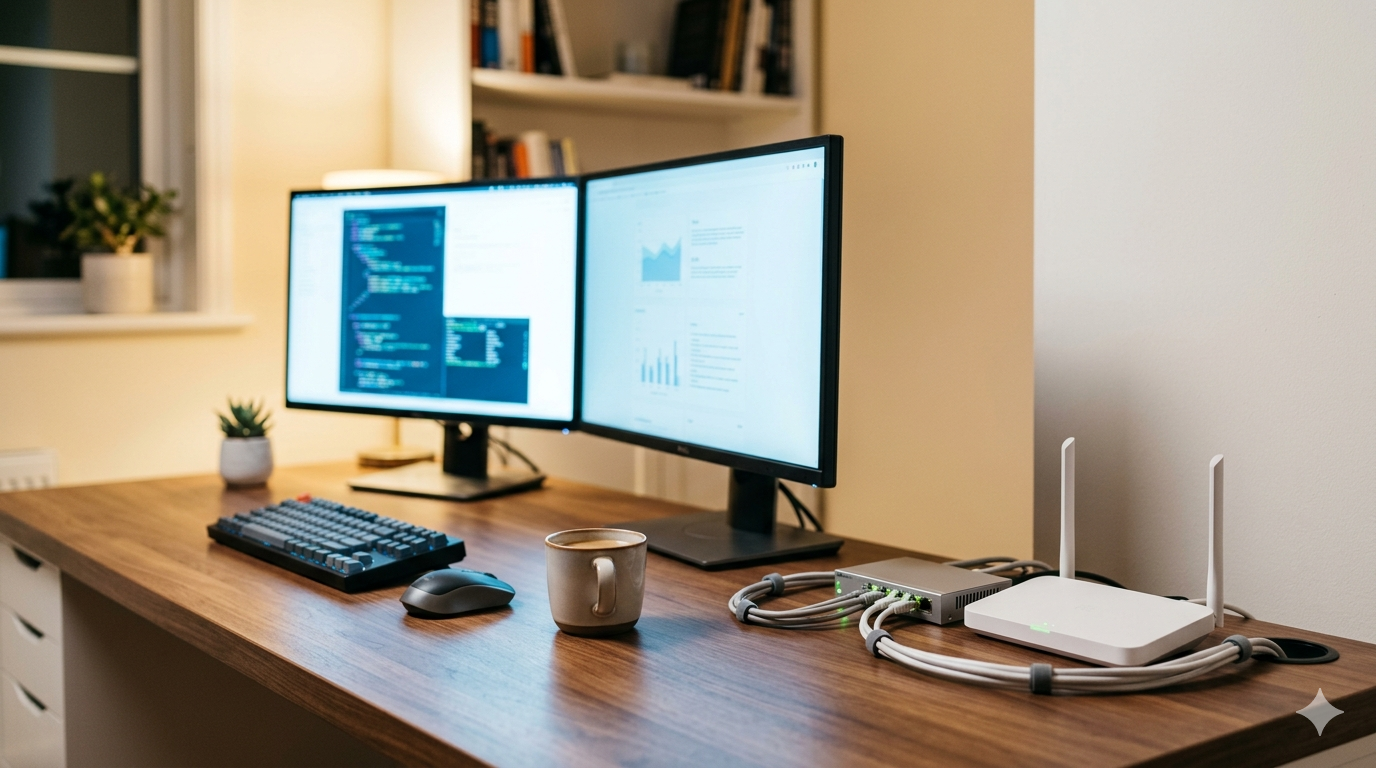
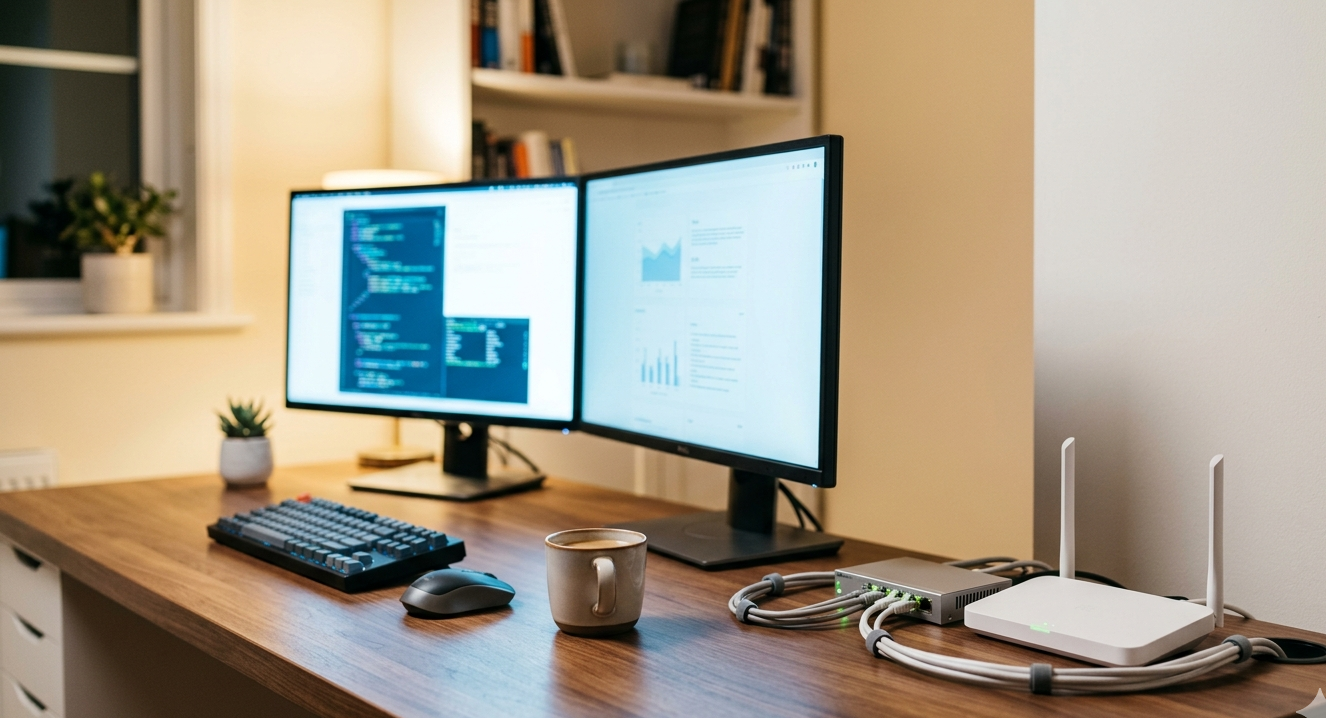
Style fixes: larger nav, warmer cream background, crop watermark from hero image
- Increase nav bar size (logo, links, padding)
- Switch background from #faf8f5 to #f5f0e8 (warmer cream)
- Fix Tailwind v4 config (CSS @theme instead of tailwind.config.js)
- Crop Gemini watermark from hero background image

diff --git a/src/components/Nav.jsx b/src/components/Nav.jsx
@@ -13,11 +13,11 @@ export function Nav({ transparent = false }) {
   const { pathname } = useLocation()
   const [menuOpen, setMenuOpen] = useState(false)
 
-  const bg = transparent ? 'bg-transparent' : 'bg-cream border-b border-border'
+  const bg = transparent ? 'bg-transparent' : 'bg-[#f5f0e8] border-b border-border'
 
   return (
     <nav className={`sticky top-0 z-50 ${bg}`}>
-      <div className="flex items-center justify-between px-6 py-5 md:px-12">
+      <div className="flex items-center justify-between px-6 py-6 md:px-12">
         <Link to="/">
           <Logo />
         </Link>
@@ -28,7 +28,7 @@ export function Nav({ transparent = false }) {
             <Link
               key={to}
               to={to}
-              className={`font-oswald text-[15px] tracking-[0.08em] transition-colors hover:text-text-primary ${
+              className={`font-oswald text-[17px] tracking-[0.08em] transition-colors hover:text-text-primary ${
                 pathname === to ? 'text-text-primary' : 'text-text-muted'
               }`}
             >
@@ -51,13 +51,13 @@ export function Nav({ transparent = false }) {
 
       {/* Mobile menu */}
       {menuOpen && (
-        <div className="md:hidden border-t border-border bg-cream px-6 py-4 flex flex-col gap-4">
+        <div className="md:hidden border-t border-border bg-[#f5f0e8] px-6 py-4 flex flex-col gap-4">
           {links.map(({ to, label }) => (
             <Link
               key={to}
               to={to}
               onClick={() => setMenuOpen(false)}
-              className={`font-oswald text-[15px] tracking-[0.08em] ${
+              className={`font-oswald text-[17px] tracking-[0.08em] ${
                 pathname === to ? 'text-text-primary' : 'text-text-muted'
               }`}
             >

diff --git a/src/pages/Home.jsx b/src/pages/Home.jsx
@@ -9,7 +9,7 @@ export function Home() {
       animate={{ opacity: 1 }}
       exit={{ opacity: 0 }}
       transition={{ duration: 0.3 }}
-      className="relative h-screen -mt-[73px] flex items-center overflow-hidden"
+      className="relative h-screen -mt-[86px] flex items-center overflow-hidden"
     >
       {/* Background image */}
       <div
@@ -17,16 +17,16 @@ export function Home() {
         style={{ backgroundImage: `url(${heroBg})` }}
       />
 
-      {/* Cream gradient overlay */}
+      {/* Gradient overlay */}
       <div
         className="absolute inset-0"
         style={{
-          background: 'linear-gradient(90deg, rgba(250,248,245,0.96) 0%, rgba(250,248,245,0.88) 38%, rgba(250,248,245,0.45) 65%, rgba(250,248,245,0.15) 100%)',
+          background: 'linear-gradient(90deg, rgba(245,240,232,0.96) 0%, rgba(245,240,232,0.88) 38%, rgba(245,240,232,0.45) 65%, rgba(245,240,232,0.15) 100%)',
         }}
       />
 
       {/* Hero content */}
-      <div className="relative z-10 px-6 md:px-12 pt-[73px] max-w-3xl">
+      <div className="relative z-10 px-6 md:px-12 pt-[86px] max-w-3xl">
         <motion.h1
           initial={{ opacity: 0, y: 20 }}
           animate={{ opacity: 1, y: 0 }}

diff --git a/src/components/Logo.jsx b/src/components/Logo.jsx
@@ -30,16 +30,16 @@ function ShieldDiamond({ size = 30, dark = true }) {
 export function Logo({ dark = true, size = 'default' }) {
   const textColor = dark ? 'text-text-primary' : 'text-gray-100'
   const mutedColor = dark ? 'text-text-muted' : 'text-gray-400'
-  const svgSize = size === 'small' ? 20 : 30
+  const svgSize = size === 'small' ? 22 : 38
 
   return (
-    <div className="flex items-center gap-2.5">
+    <div className="flex items-center gap-3">
       <ShieldDiamond size={svgSize} dark={dark} />
-      <div className="flex items-center gap-2">
-        <span className={`font-oswald text-[20px] font-bold tracking-[0.06em] ${textColor}`}>
+      <div className="flex items-center gap-2.5">
+        <span className={`font-oswald text-[24px] font-bold tracking-[0.06em] ${textColor}`}>
           WILCOX
         </span>
-        <span className={`font-oswald text-[12px] font-light tracking-[0.2em] ${mutedColor}`}>
+        <span className={`font-oswald text-[14px] font-light tracking-[0.2em] ${mutedColor}`}>
           SECURITY
         </span>
       </div>

diff --git a/src/index.css b/src/index.css
@@ -1,12 +1,25 @@
 @import url('https://fonts.googleapis.com/css2?family=Inter:wght@400;500;600&family=Oswald:wght@300;400;600;700&display=swap');
 
-@tailwind base;
-@tailwind components;
-@tailwind utilities;
+@import "tailwindcss";
+
+@theme {
+  --color-cream: #f5f0e8;
+  --color-accent: #22c55e;
+  --color-highlight-bg: #f0fdf4;
+  --color-text-primary: #1a1a1a;
+  --color-text-body: #475569;
+  --color-text-muted: #64748b;
+  --color-text-faint: #94a3b8;
+  --color-border: #e8e4df;
+  --color-border-button: #cbd5e1;
+
+  --font-oswald: 'Oswald', sans-serif;
+  --font-inter: 'Inter', sans-serif;
+}
 
 body {
   font-family: 'Inter', sans-serif;
-  background-color: #faf8f5;
+  background-color: #f5f0e8;
   color: #1a1a1a;
   margin: 0;
 }

diff --git a/src/App.jsx b/src/App.jsx
@@ -30,7 +30,7 @@ function AnimatedRoutes() {
 export default function App() {
   return (
     <BrowserRouter>
-      <div className="min-h-screen bg-cream">
+      <div className="min-h-screen bg-[#f5f0e8]">
         <AnimatedRoutes />
       </div>
     </BrowserRouter>
